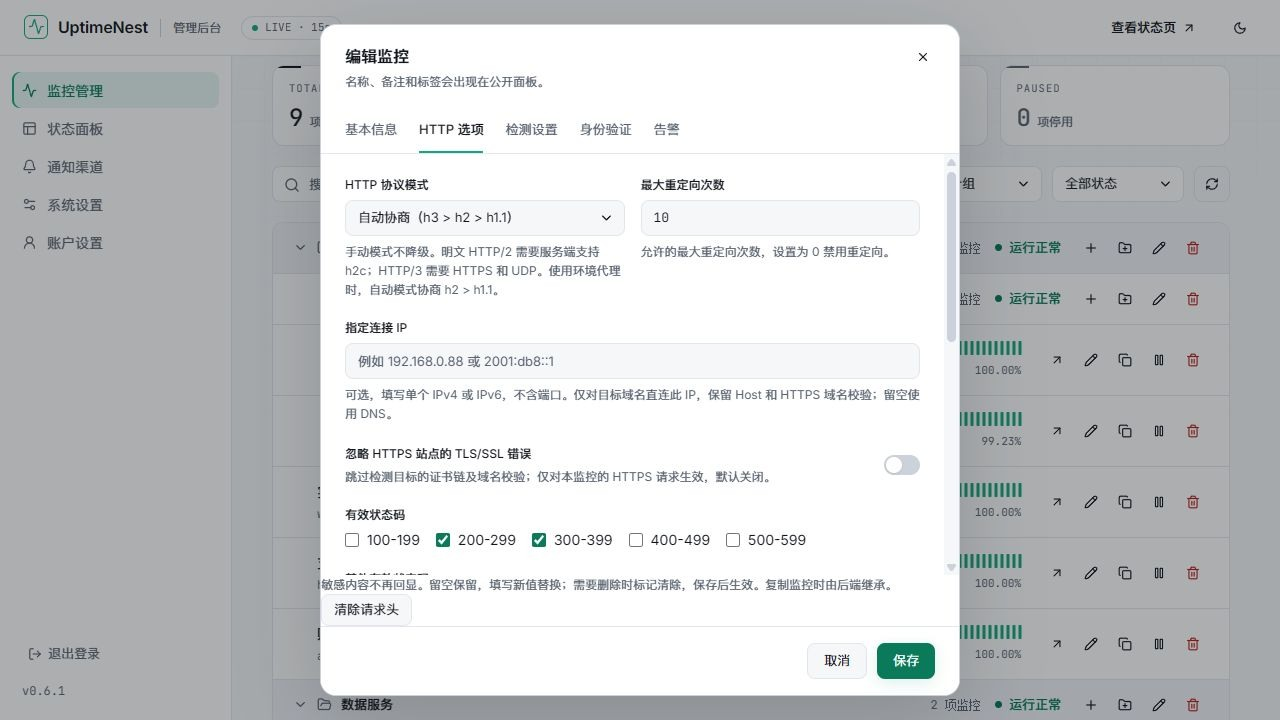
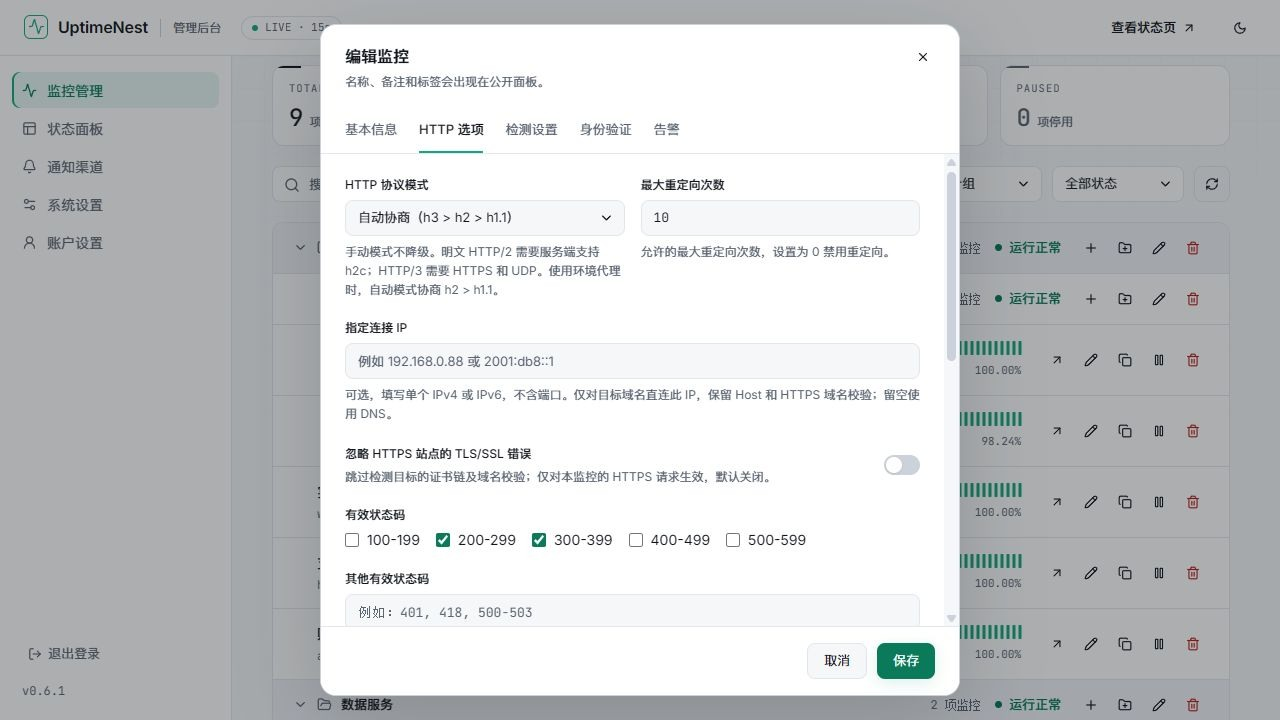
fix(web): keep saved secrets in monitor editor scroll area

Changed region(s): [[0.25, 0.7944, 0.6875, 0.8556], [0.7188, 0.4583, 0.75, 0.4889]]

diff --git a/web/src/components/MonitorEditor.vue b/web/src/components/MonitorEditor.vue
@@ -455,25 +455,25 @@ async function submit(event: Event) {
           >
             <HTTPAuthenticationEditor v-model="form.http" :busy="busy" :configured="retainedSecrets" />
           </TabsContent>
+          <fieldset v-if="configured.length" class="form-section monitor-editor-secrets" :disabled="busy">
+            <legend>{{ t('monitorSecrets.title') }}</legend>
+            <p class="field-hint">{{ t('monitorSecrets.hint') }}</p>
+            <div class="flex flex-wrap gap-2">
+              <Button
+                v-for="field in configured"
+                :key="field"
+                type="button"
+                size="sm"
+                variant="outline"
+                :aria-pressed="clearSecrets.includes(field)"
+                @click="toggleSecret(field)"
+              >
+                {{ t(clearSecrets.includes(field) ? 'monitorSecrets.undoClear' : 'monitorSecrets.clear', { field: t(secretLabels[field] || field) }) }}
+              </Button>
+            </div>
+          </fieldset>
         </div>
       </TabsRoot>
-      <fieldset v-if="configured.length" class="form-section" :disabled="busy">
-        <legend>{{ t('monitorSecrets.title') }}</legend>
-        <p class="field-hint">{{ t('monitorSecrets.hint') }}</p>
-        <div class="flex flex-wrap gap-2">
-          <Button
-            v-for="field in configured"
-            :key="field"
-            type="button"
-            size="sm"
-            variant="outline"
-            :aria-pressed="clearSecrets.includes(field)"
-            @click="toggleSecret(field)"
-          >
-            {{ t(clearSecrets.includes(field) ? 'monitorSecrets.undoClear' : 'monitorSecrets.clear', { field: t(secretLabels[field] || field) }) }}
-          </Button>
-        </div>
-      </fieldset>
       <div class="form-actions">
         <Button type="button" variant="outline" :disabled="busy" @click="open = false">
           {{ t('common.cancel') }}

diff --git a/web/src/styles.css b/web/src/styles.css
@@ -1187,7 +1187,8 @@ svg {
 .editor-tab-scroll [role='tabpanel'] {
   outline: none;
 }
-.monitor-editor-form .form-section > legend {
+/* 页签名称替代重复的分区标题，敏感配置区仍保留自己的标题。 */
+.monitor-editor-form .form-section:not(.monitor-editor-secrets) > legend {
   position: absolute;
   width: 1px;
   height: 1px;
@@ -1196,6 +1197,12 @@ svg {
   overflow: hidden;
   clip-path: inset(50%);
   white-space: nowrap;
+}
+.monitor-editor-secrets {
+  margin-top: 24px;
+}
+.monitor-editor-secrets > .field-hint {
+  margin-bottom: 12px;
 }
 .monitor-editor-form .form-actions {
   position: static;

diff --git a/docs/changelog.md b/docs/changelog.md
@@ -4,6 +4,7 @@
 
 ## 未发布
 
+- 修复监控编辑器敏感配置区的标题隐藏和边距问题，将该区域移入滚动内容，保存按钮保持固定，并更新 HTTP、WebSocket 配置截图。
 - 后台左下角版本号改为读取前端版本配置，与控制台保持一致，避免发布后仍显示固定的旧版本文字。
 - 更新界面截图并集中到独立文档。项目首页使用真实截图合成主图，并提供截图文档入口。
 
